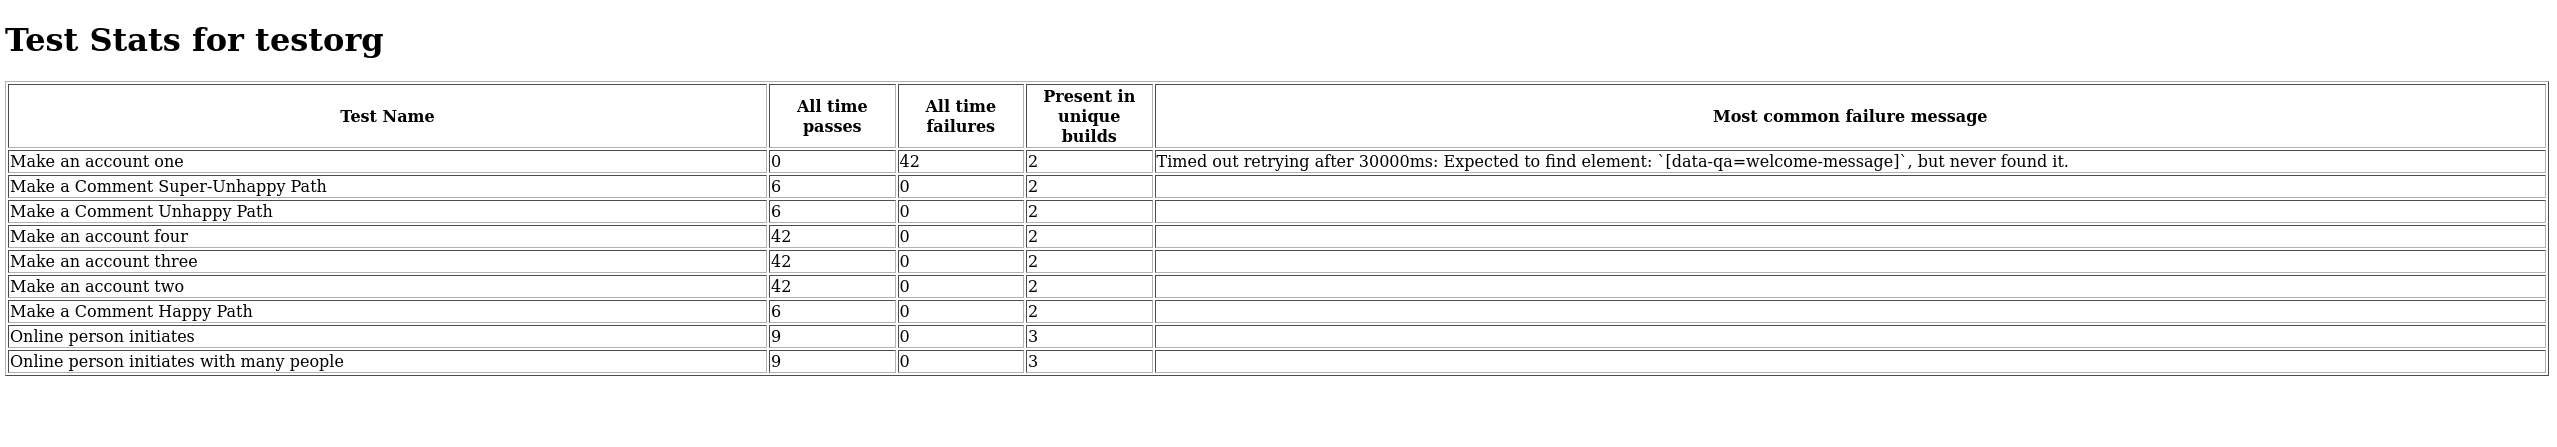
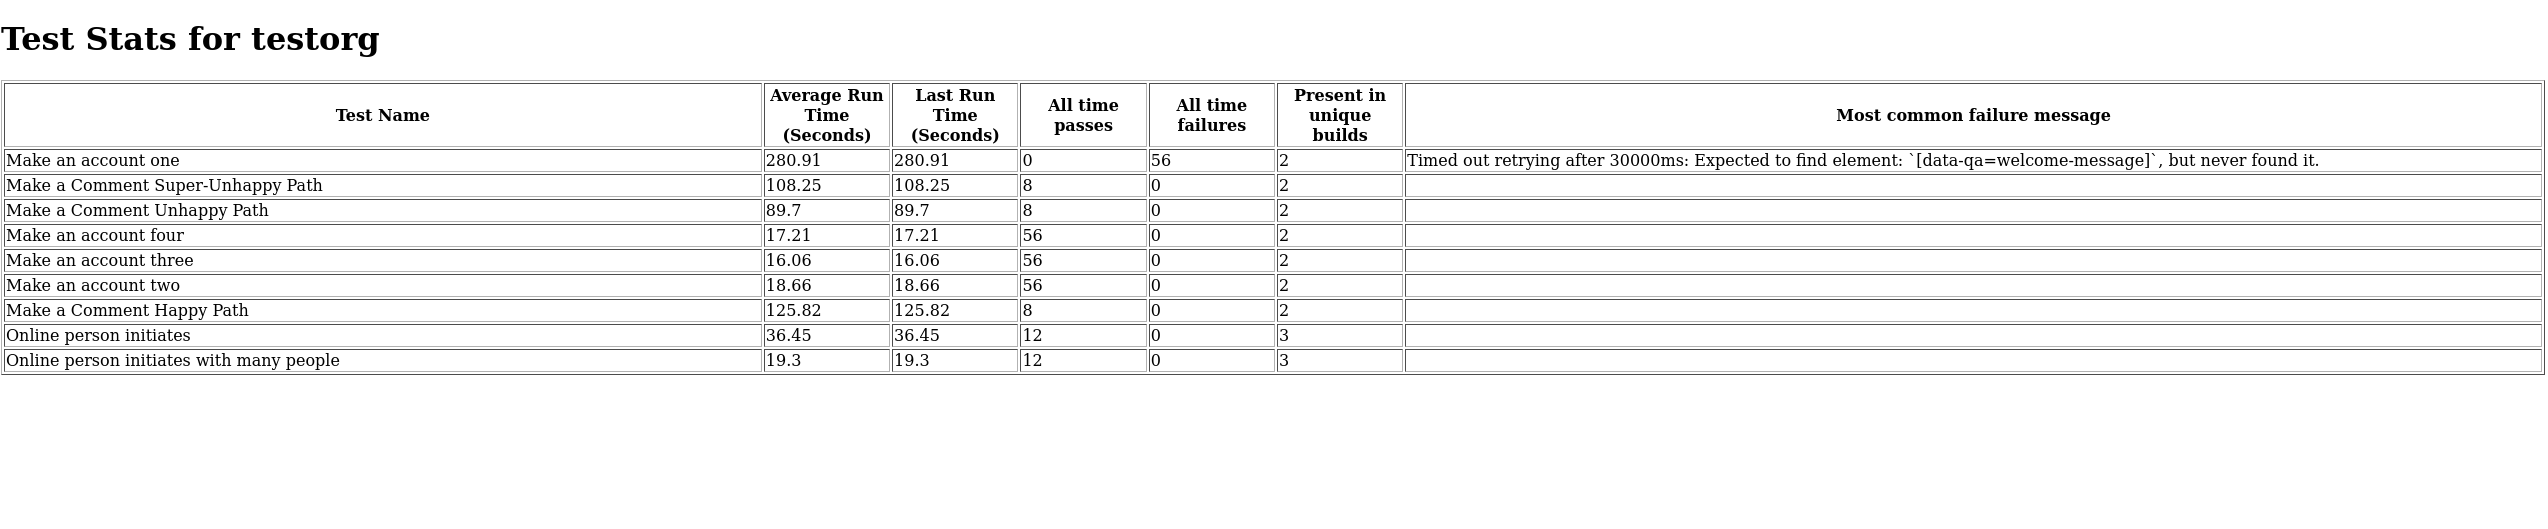
add index, and last test run time in table

Changed region(s): [[0.0, 0.1454, 1.0, 0.8434], [0.0, 0.0291, 0.155, 0.1163]]

diff --git a/app/views/stats.scala.html b/app/views/stats.scala.html
@@ -13,6 +13,9 @@
         Average Run Time (Seconds)
       </th>
       <th width="5%">
+        Last Run Time (Seconds)
+      </th>
+      <th width="5%">
         All time passes
       </th>
       <th width="5%">
@@ -21,7 +24,7 @@
       <th width="5%">
         Present in unique builds
       </th>
-      <th width="50%">
+      <th width="45%">
         Most common failure message
       </th>
     </tr>
@@ -29,6 +32,7 @@
       <tr>
         <td>@test.test_name</td>
         <td>@test.average_run_time_seconds</td>
+        <td>@test.last_run_time_seconds</td>
         <td>@test.passes</td>
         <td>@test.failures</td>
         <td>@test.unique_builds</td>
